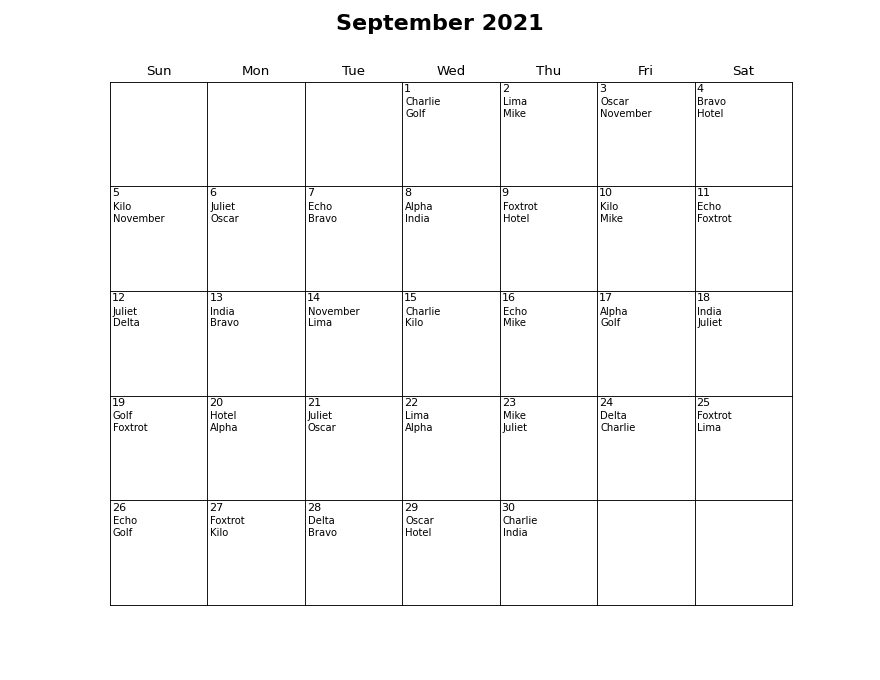
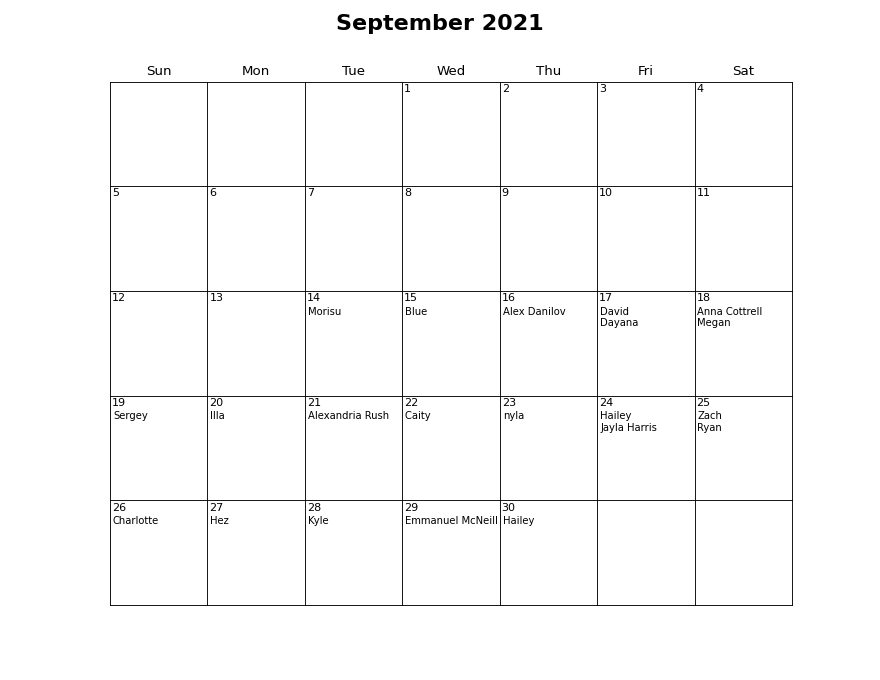
V1.2

diff --git a/main.py b/main.py
@@ -24,14 +24,14 @@ WEEKDAY_STAFF_NUM = 1
 WEEKEND_STAFF_NUM = 2
 
 # month number and string
-MONTH_NUM = datetime.today().month % 12
+MONTH_NUM = datetime.today().month + 1 % 12
 MONTH_STRING = calendar.month_name[MONTH_NUM]
 
 # number of days in current month
-NUM_DAYS_MONTH = calendar.monthrange(datetime.today().year, datetime.today().month % 12)[1]
+NUM_DAYS_MONTH = calendar.monthrange(datetime.today().year, datetime.today().month + 1 % 12)[1]
 
 # schedule bounds - useful for partial months of duty scheduling
-SCHEDULE_START_DAY = 14
+SCHEDULE_START_DAY = 1
 MONTH_END_DAY = NUM_DAYS_MONTH
 
 # dictionary to hold names of RA scheduled for each date
@@ -53,7 +53,7 @@ RA_NAMES = availability_master["First Name"].tolist()
 RA_BUSY_DAYS = availability_master["Days"].tolist()
 
 # number of days in current month
-NUM_DAYS_MONTH = calendar.monthrange(datetime.today().year, datetime.today().month % 12)[1]
+NUM_DAYS_MONTH = calendar.monthrange(datetime.today().year, datetime.today().month + 1 % 12)[1]
 
 # create RA object from ResidentAdviser class for each RA in Availability XLSX file
 RA_DETAILS = {}
